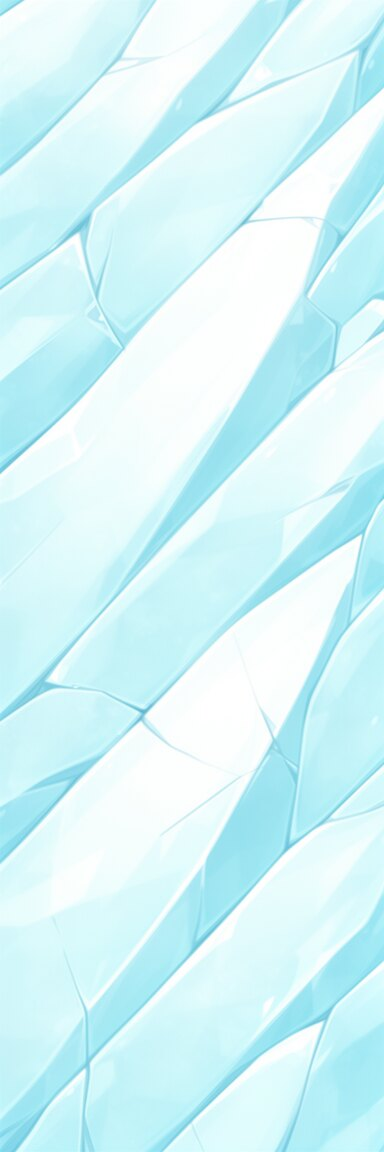
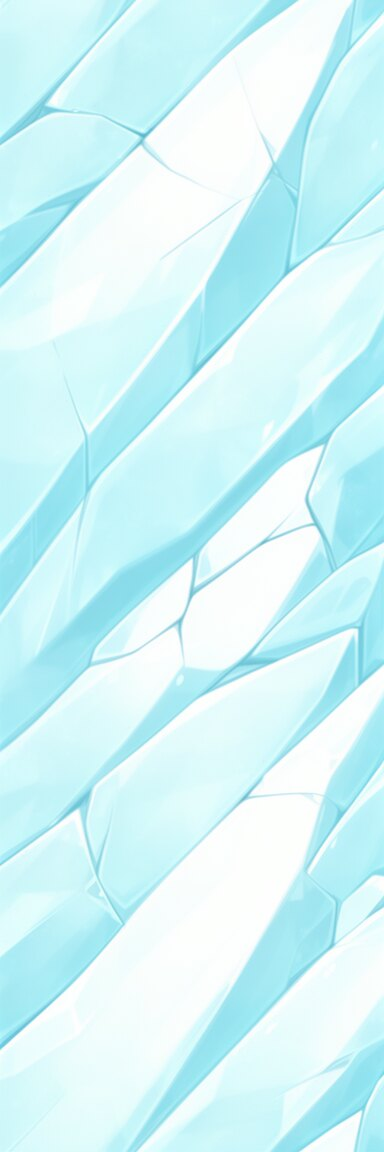
Glut: tekstury ścian bez szwu w pionie (inpainting łączenia we Fluxie), bez lustrzanego odbicia

diff --git a/games/glut/src/scenes/play.ts b/games/glut/src/scenes/play.ts
@@ -349,13 +349,8 @@ export class PlayScene extends Scene {
       optionalTexture('walls/caramel.jpg'),
       optionalTexture('walls/spike.png'),
     ]);
-    // Pionowo bez szwu: obraz + jego odbicie (jak tło).
-    this.wallTex = {
-      ice: wIce ? await mirrorTile(wIce) : null,
-      frosting: wFrost ? await mirrorTile(wFrost) : null,
-      caramel: wCaramel ? await mirrorTile(wCaramel) : null,
-      spike: wSpike,
-    };
+    // Tekstury ścian są przygotowane bez szwu w pionie (inpainting łączenia), więc powtarzają się wprost.
+    this.wallTex = { ice: wIce, frosting: wFrost, caramel: wCaramel, spike: wSpike };
     this.spikeGlow = await optionalTexture('walls/spike-glow.png');
     const ledgeKeys = [...BIOMES.map((b) => b.id as string), 'ice', 'crumble', 'bounce', 'cloud', 'belt'];
     const ledgeArt = await Promise.all(ledgeKeys.map((k) => optionalTexture(`ledges/${k}.png`)));
@@ -376,7 +371,7 @@ export class PlayScene extends Scene {
           spike1 ? { tex: spike1, glow: glow1 } : null,
           spike2 ? { tex: spike2, glow: glow2 } : null,
         ].filter((x): x is { tex: Texture; glow: Texture | null } => !!x);
-        this.biomeWalls.set(b.id, { sticky: sticky ? await mirrorTile(sticky) : null, spikes });
+        this.biomeWalls.set(b.id, { sticky, spikes });
       }),
     );
     const baseBg = bgTex ? await mirrorTile(bgTex) : null;
